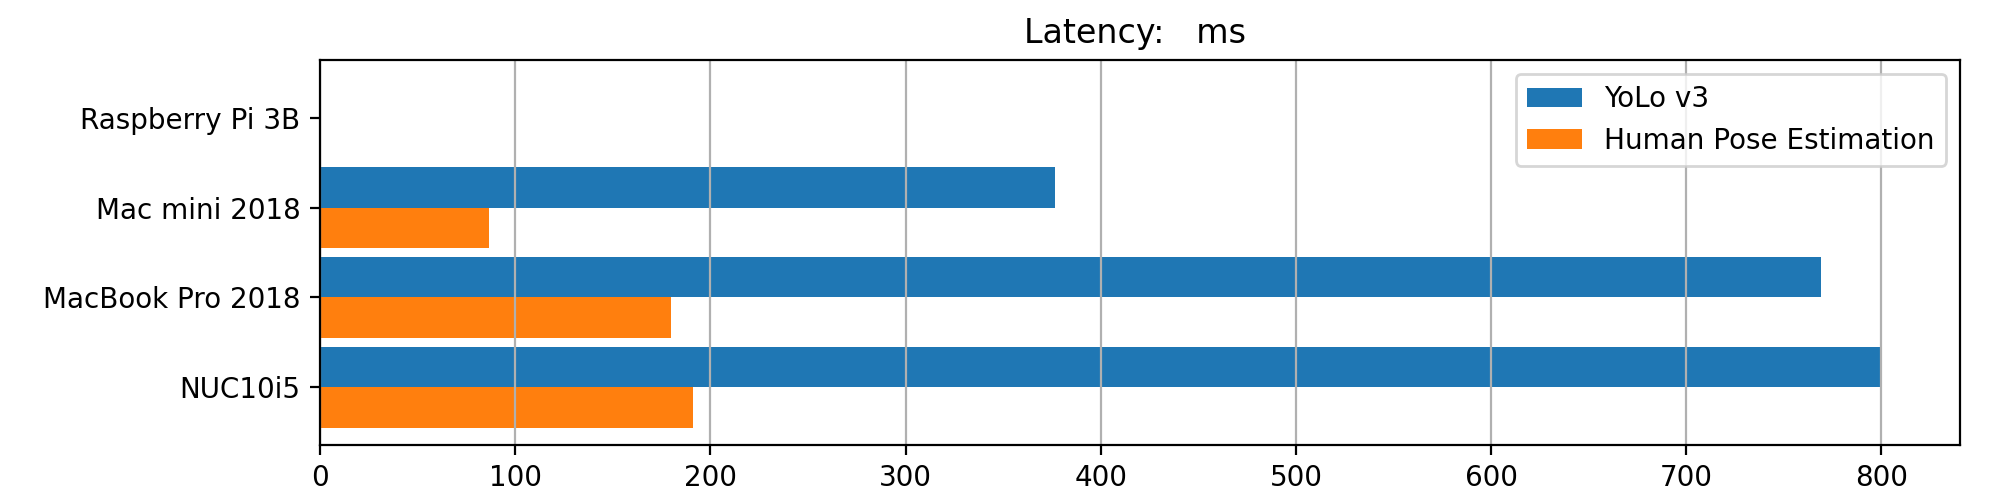
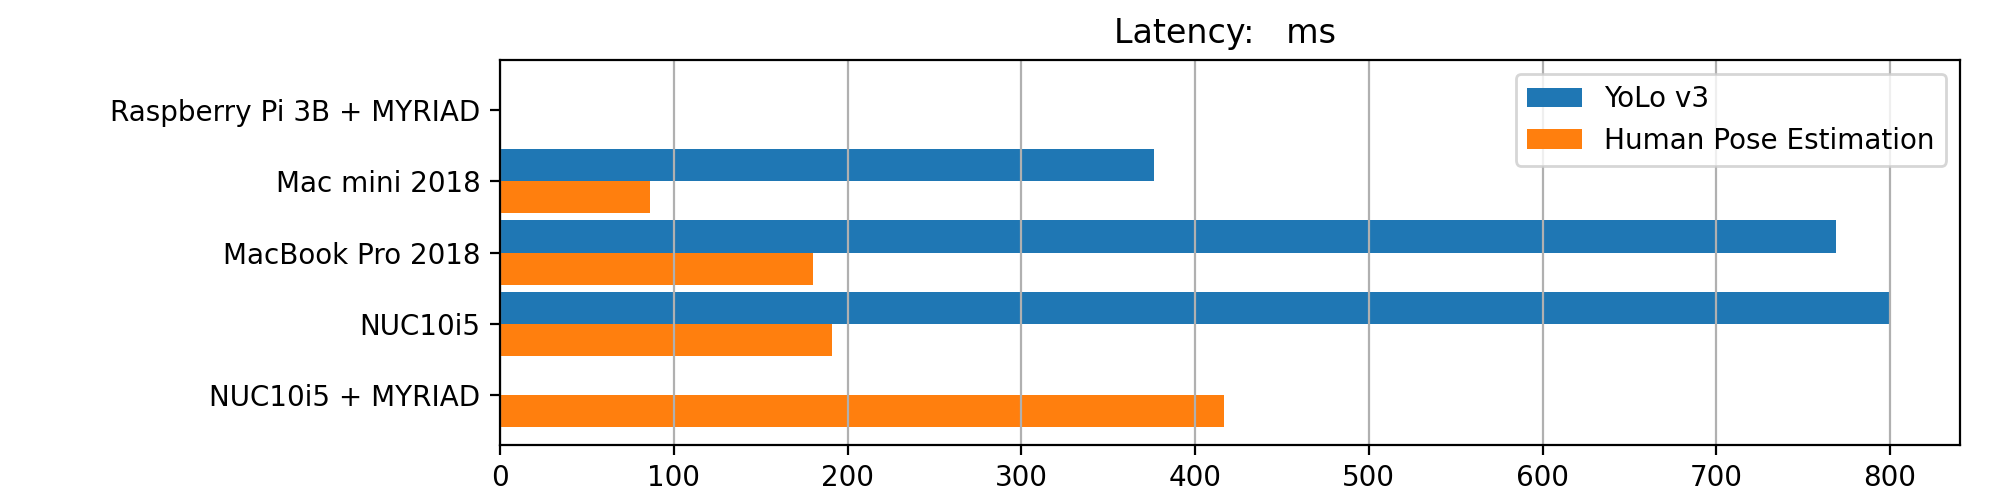
improve bar chart, add NUC10i5 + MYRIAD

diff --git a/benchmark.py b/benchmark.py
@@ -30,7 +30,7 @@ def make_chart(idx):
     plt.barh(x - bar_width/2, yolo, bar_width, color="tab:blue", label="YoLo v3")
     plt.barh(x + bar_width/2, hpe, bar_width, color="tab:orange", label="Human Pose Estimation")
     plt.legend()
-    plt.subplots_adjust(left=0.16, right=0.98)
+    plt.subplots_adjust(left=0.25, right=0.98)
     plt.gca().invert_yaxis() # 上下並びを逆順に
     plt.yticks(x, index)
     plt.grid(axis='x')
